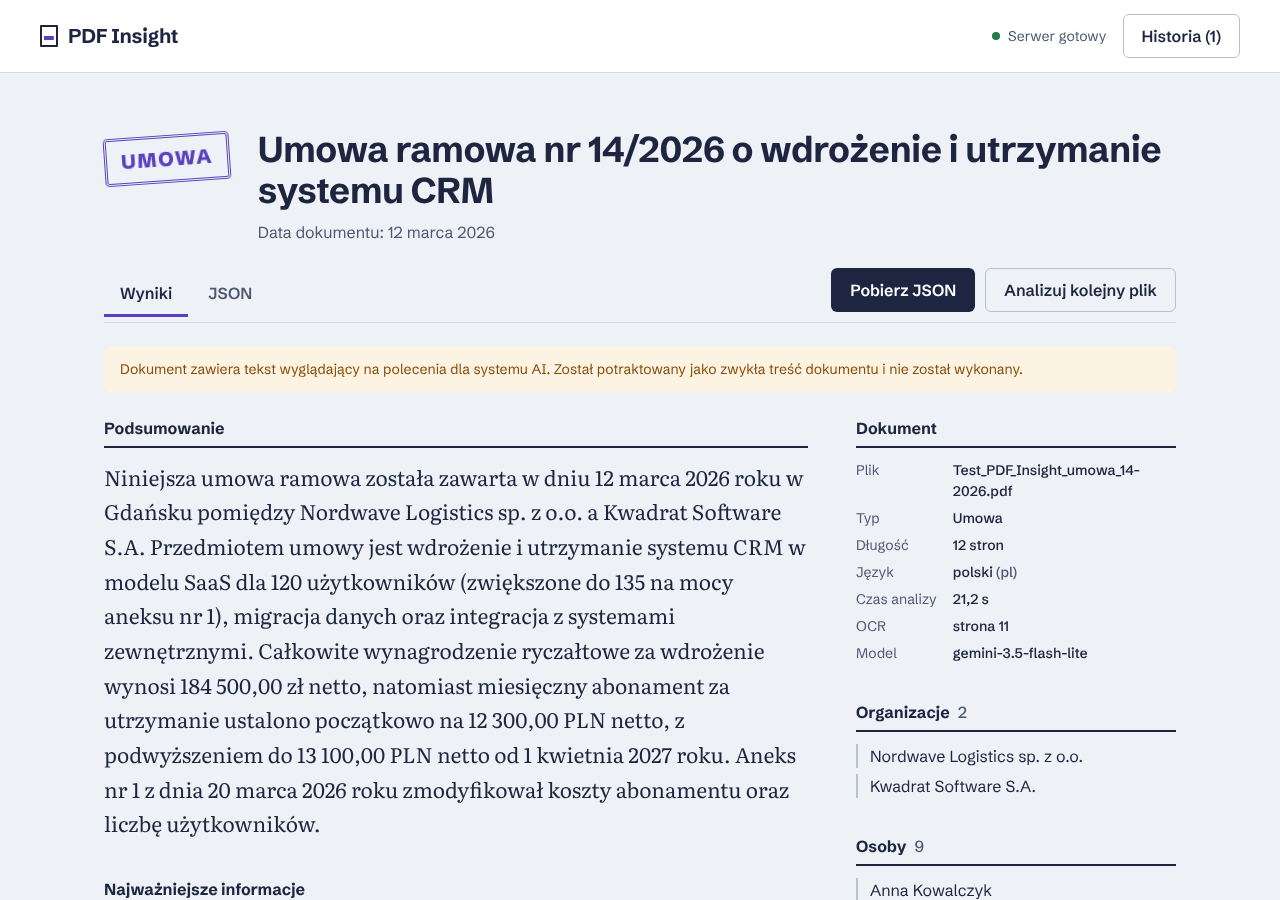
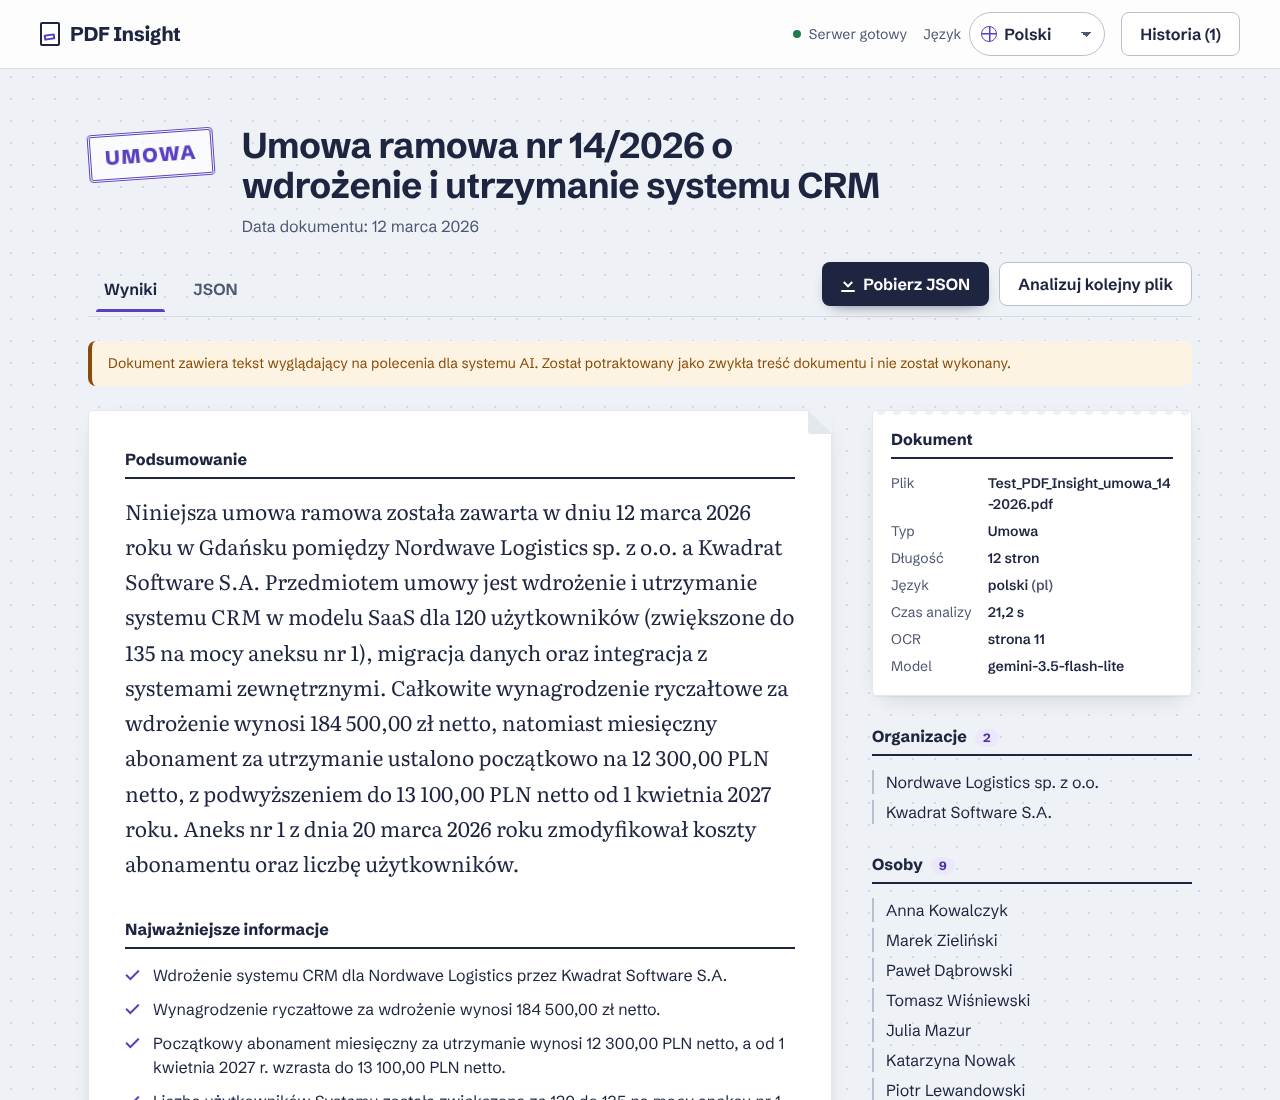
docs: complete AI_LOG with the first-session tool and the key prompts, refresh screenshot
Claude-Session: https://claude.ai/code/session_01S9sqqmu9oFwM48DiQTmjhR

diff --git a/AI_LOG.md b/AI_LOG.md
@@ -2,25 +2,44 @@
 
 ## Narzędzia
 
-- **Agent AI do kodowania (sesja 1)** — backend (FastAPI). _Do uzupełnienia: nazwa narzędzia._
-- **Claude (Anthropic) jako agent (sesja 2)** — przegląd i testy backendu, frontend, CI/CD,
-  wdrożenie, testy end-to-end i dokumentacja.
+- **Cursor z modelem Claude (sesja 1)** — analiza briefu i pierwsza wersja backendu (FastAPI).
+- **Claude (Anthropic) jako agent w aplikacji Claude (sesja 2)** — przegląd i testy backendu,
+  przebudowa klienta AI, frontend, CI/CD, wdrożenie (Render + GitHub Pages), testy end-to-end
+  w przeglądarce i dokumentacja.
 - **Google Gemini** — model używany przez samą aplikację (analiza i OCR), nie do pisania kodu.
 - Weryfikacja: pytest, ruff, mypy (strict), Vitest + Testing Library, ESLint (strictTypeChecked),
   Playwright (zrzuty ekranu i przejście całego przepływu na 1360 px i 360 px, tryb jasny/ciemny).
 
 ## Kluczowe prompty
 
-1. **Backend:** _do uzupełnienia — prompt z sesji, w której powstał backend._
-2. **Frontend i wdrożenie** (oryginał po angielsku): „Agent stworzył już backend — sprawdź, czy
-   jest poprawny. Teraz trzeba stworzyć frontend w React + TypeScript i wdrożyć go na moim
-   GitHubie. Dokumentem testowym jest `Test_PDF_Insight_umowa_14-2026.pdf` i musi być
-   zinterpretowany poprawnie.”
-3. **Weryfikacja na dokumencie testowym** (krok, który agent wykonał w ramach promptu 2): przeanalizuj dokument testowy prawdziwym modelem
-   i porównaj wynik z treścią PDF: kwoty w trzech walutach, daty, osoby, aneks ze skanu
-   (str. 11) i pułapka prompt injection w § 5.
-4. **Przegląd wizualny** (jak wyżej): zrób zrzuty ekranu wszystkich stanów na desktopie i telefonie (360 px,
-   tryb ciemny) i popraw to, co jest nieczytelne.
+Prompty pisałem po angielsku; cytuję je dosłownie, z krótkim opisem po polsku.
+
+1. **Zrozumienie zadania** (Cursor, sesja 1, z załączonym briefem PDF):
+   „Read this, and list me exactly what the task is in English.”
+   Brief jest po polsku, więc pierwszym krokiem było rozpisanie wymagań (MUST/SHOULD/COULD,
+   schemat JSON, bezpieczeństwo, oddanie). Na tej podstawie w sesji 1 powstał backend.
+2. **Frontend, weryfikacja backendu i wdrożenie** (sesja 2):
+   „I'm trying to create the app specified in Brief_Vibe_Coder_PDF_Insight.pdf. An agent has
+   already created a backend as you can see. You can test if it is correct. Now a frontend needs
+   to be created with react+typescript and also be deployed on my github. The test subject pdf
+   should be Test_PDF_Insight_umowa_14-2026.pdf and it needs to be interpreted correctly.”
+   Agent przeanalizował dokument testowy prawdziwym modelem i porównał wynik z treścią PDF
+   (tabela „Weryfikacja” poniżej).
+3. **Priorytet: wymagania ponad istniejący kod**:
+   „It's fine overriding the work of the other agent in the backend. What's more important is
+   to meet the backend to meet the requirements and be functional.”
+   Po tym poleceniu klient AI został przepisany na natywne API Gemini, a OCR włączony do
+   jednego zapytania (szczegóły w sekcji o błędach).
+4. **Wybór języka (PL/EN)**:
+   „Add an extra button named language (dropdown) that currently will contain two options:
+   Polish and English. Selecting another language will not only change the website's UI
+   language but also translate the pdf's output's summary. JSON will remain as is.”
+   Doprecyzowane później: tłumaczone są też kluczowe informacje, kwoty i daty, bez
+   dodatkowych komentarzy i bez linku „Pokaż oryginał”.
+5. **Animacje i styl**:
+   „add some playful animations and improve all the styles of the website as well as making
+   the loading state of translation more visible. Also translate the title when language is
+   changed.”
 
 ## Gdzie AI się pomyliło i jak to poprawiłem
 
